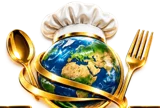
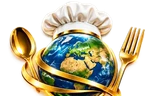
Header mark: full emblem (hat, spoon, fork) at 2x, no crop/tile; mobile stats in one row

diff --git a/style.css b/style.css
@@ -53,7 +53,7 @@ h2 { font-size: clamp(28px, 4vw, 44px); font-weight: 750; }
 .top { position: sticky; top: 0; z-index: 20; background: color-mix(in srgb, var(--bg) 88%, transparent); backdrop-filter: blur(10px); border-bottom: 1px solid var(--line); transition: background-color .7s var(--ease), border-color .7s var(--ease); }
 .top-in { display: flex; align-items: center; gap: 20px; height: 68px; }
 .brand { flex: none; display: flex; align-items: center; gap: 10px; text-decoration: none; font-weight: 750; font-size: 15px; letter-spacing: .02em; white-space: nowrap; }
-.brand img { width: 40px; height: 40px; object-fit: cover; border-radius: 10px; background: #fff; }
+.brand img { width: auto; height: 40px; object-fit: contain; }
 .menu { display: flex; gap: 2px; margin-left: auto; min-width: 0; }
 .menu a { text-decoration: none; font-size: 14px; padding: 8px 8px; border-radius: 8px; color: var(--muted); transition: color .25s, background-color .25s; white-space: nowrap; }
 .menu a:hover { color: var(--fg); background: color-mix(in srgb, var(--gold) 18%, transparent); }
@@ -275,7 +275,7 @@ body[data-bg="dark"] .bg-fx span { opacity: .12; }
 .stats b { font-size: 34px; font-weight: 800; line-height: 1; color: var(--fg); font-variant-numeric: tabular-nums; }
 .stats span { font-size: 14px; color: var(--muted); }
 .stats li + li { padding-left: 34px; border-left: 1px solid var(--line); }
-@media (max-width: 767px) { .stats { gap: 18px; } .stats li + li { padding-left: 18px; } .stats b { font-size: 26px; } }
+@media (max-width: 767px) { .stats { display: grid; grid-template-columns: repeat(3, auto); justify-content: start; gap: 0 16px; } .stats li + li { padding-left: 16px; } .stats b { font-size: 26px; } .stats span { font-size: 12.5px; } }
 
 .marquee { overflow: hidden; padding: 8px 0 12px; }
 .marquee .track { display: flex; gap: 14px; width: max-content; }

diff --git a/index.html b/index.html
@@ -20,7 +20,7 @@
 
 <header class="top">
   <div class="wrap top-in">
-    <a href="#home" class="brand" aria-label="TRADE UNIVERSAL FOOD"><img src="assets/mark.webp?v=8" alt="" width="40" height="40"><span>TRADE UNIVERSAL FOOD</span></a>
+    <a href="#home" class="brand" aria-label="TRADE UNIVERSAL FOOD"><img src="assets/mark.webp?v=9" alt="" width="61" height="40"><span>TRADE UNIVERSAL FOOD</span></a>
     <nav class="menu" aria-label="Menu">
       <a href="#home" data-t="nav_home"></a>
       <a href="#services" data-t="nav_services"></a>
